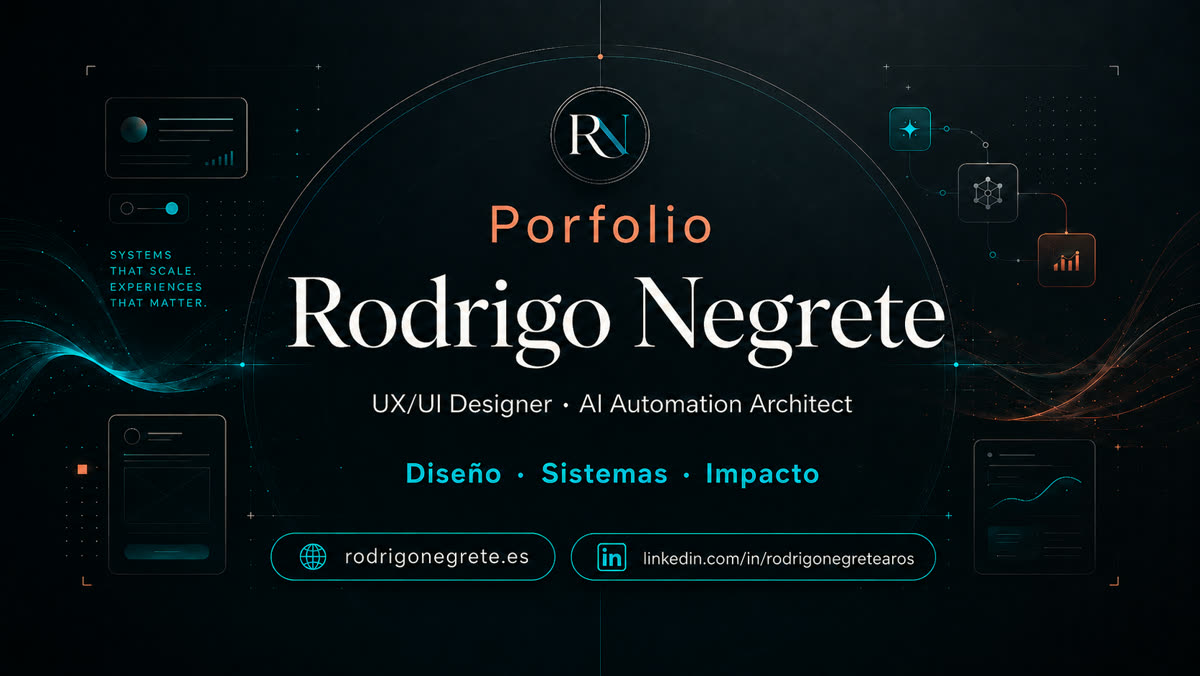
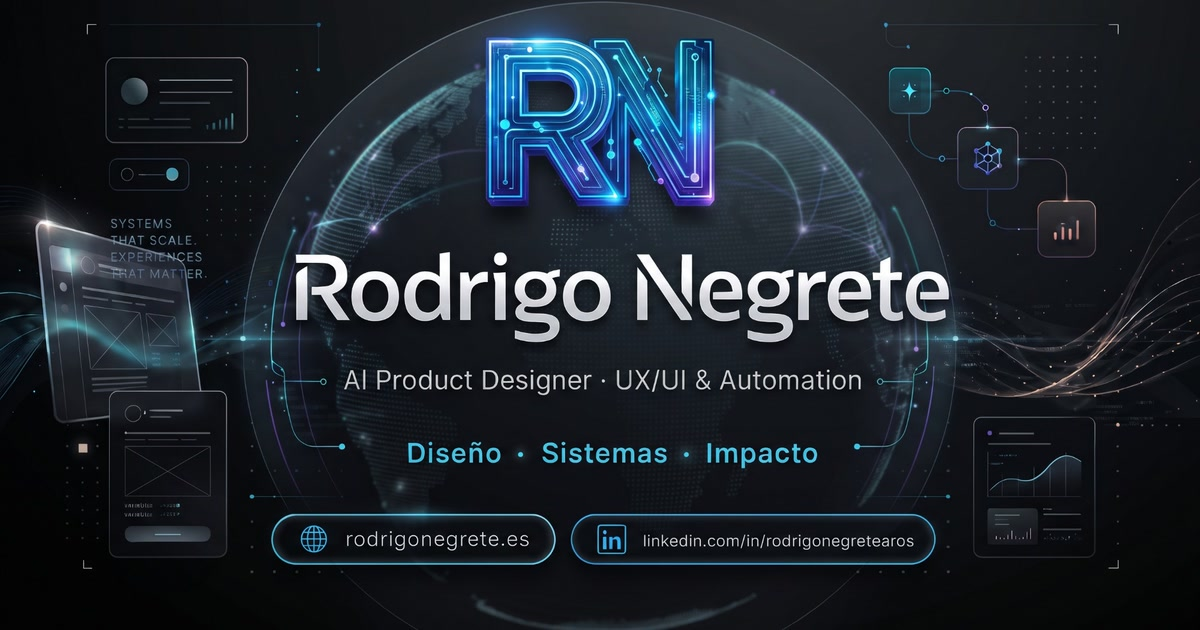
Nueva imagen de marca para compartir en redes (OG)
Las tres variantes (jpg, png, webp) se reemplazan en /assets/seo con el
nuevo cover: globo con circuitos "RN", nombre completo, roles y datos de
contacto. Las páginas que ya referencian /assets/seo/rodrigo-negrete-og.*
heredan la imagen sin tocar código. Las tres páginas del editor de PDF
ajustan sus meta width/height a 1200x630, que es la nueva dimensión.

Para que la vean actualizada LinkedIn/Facebook/X, hay que forzar la
recacheada en sus respectivos inspectores (post-deploy).

diff --git a/public/PDF/index.html b/public/PDF/index.html
@@ -18,8 +18,8 @@
     <meta property="og:image" content="https://rodrigonegrete.es/assets/seo/rodrigo-negrete-og.png">
     <meta property="og:image:secure_url" content="https://rodrigonegrete.es/assets/seo/rodrigo-negrete-og.png">
     <meta property="og:image:type" content="image/png">
-    <meta property="og:image:width" content="1727">
-    <meta property="og:image:height" content="911">
+    <meta property="og:image:width" content="1200">
+    <meta property="og:image:height" content="630">
     <meta property="og:image:alt" content="Portfolio Rodrigo Negrete UX/UI Designer y AI Automation Architect">
     <meta name="twitter:card" content="summary_large_image">
     <meta name="twitter:title" content="PDF Rodd — Editor PDF online gratuito">

diff --git a/public/pdf-editor.html b/public/pdf-editor.html
@@ -18,8 +18,8 @@
     <meta property="og:image" content="https://rodrigonegrete.es/assets/seo/rodrigo-negrete-og.png">
     <meta property="og:image:secure_url" content="https://rodrigonegrete.es/assets/seo/rodrigo-negrete-og.png">
     <meta property="og:image:type" content="image/png">
-    <meta property="og:image:width" content="1727">
-    <meta property="og:image:height" content="911">
+    <meta property="og:image:width" content="1200">
+    <meta property="og:image:height" content="630">
     <meta property="og:image:alt" content="Portfolio Rodrigo Negrete UX/UI Designer y AI Automation Architect">
     <meta name="twitter:card" content="summary_large_image">
     <meta name="twitter:title" content="PDF Rodd — Editor PDF online gratuito">

diff --git a/public/pdf-rodd/app/index.html b/public/pdf-rodd/app/index.html
@@ -18,8 +18,8 @@
     <meta property="og:image" content="https://rodrigonegrete.es/assets/seo/rodrigo-negrete-og.png">
     <meta property="og:image:secure_url" content="https://rodrigonegrete.es/assets/seo/rodrigo-negrete-og.png">
     <meta property="og:image:type" content="image/png">
-    <meta property="og:image:width" content="1727">
-    <meta property="og:image:height" content="911">
+    <meta property="og:image:width" content="1200">
+    <meta property="og:image:height" content="630">
     <meta property="og:image:alt" content="Portfolio Rodrigo Negrete UX/UI Designer y AI Automation Architect">
     <meta name="twitter:card" content="summary_large_image">
     <meta name="twitter:title" content="PDF Rodd — Editor PDF online gratuito">
